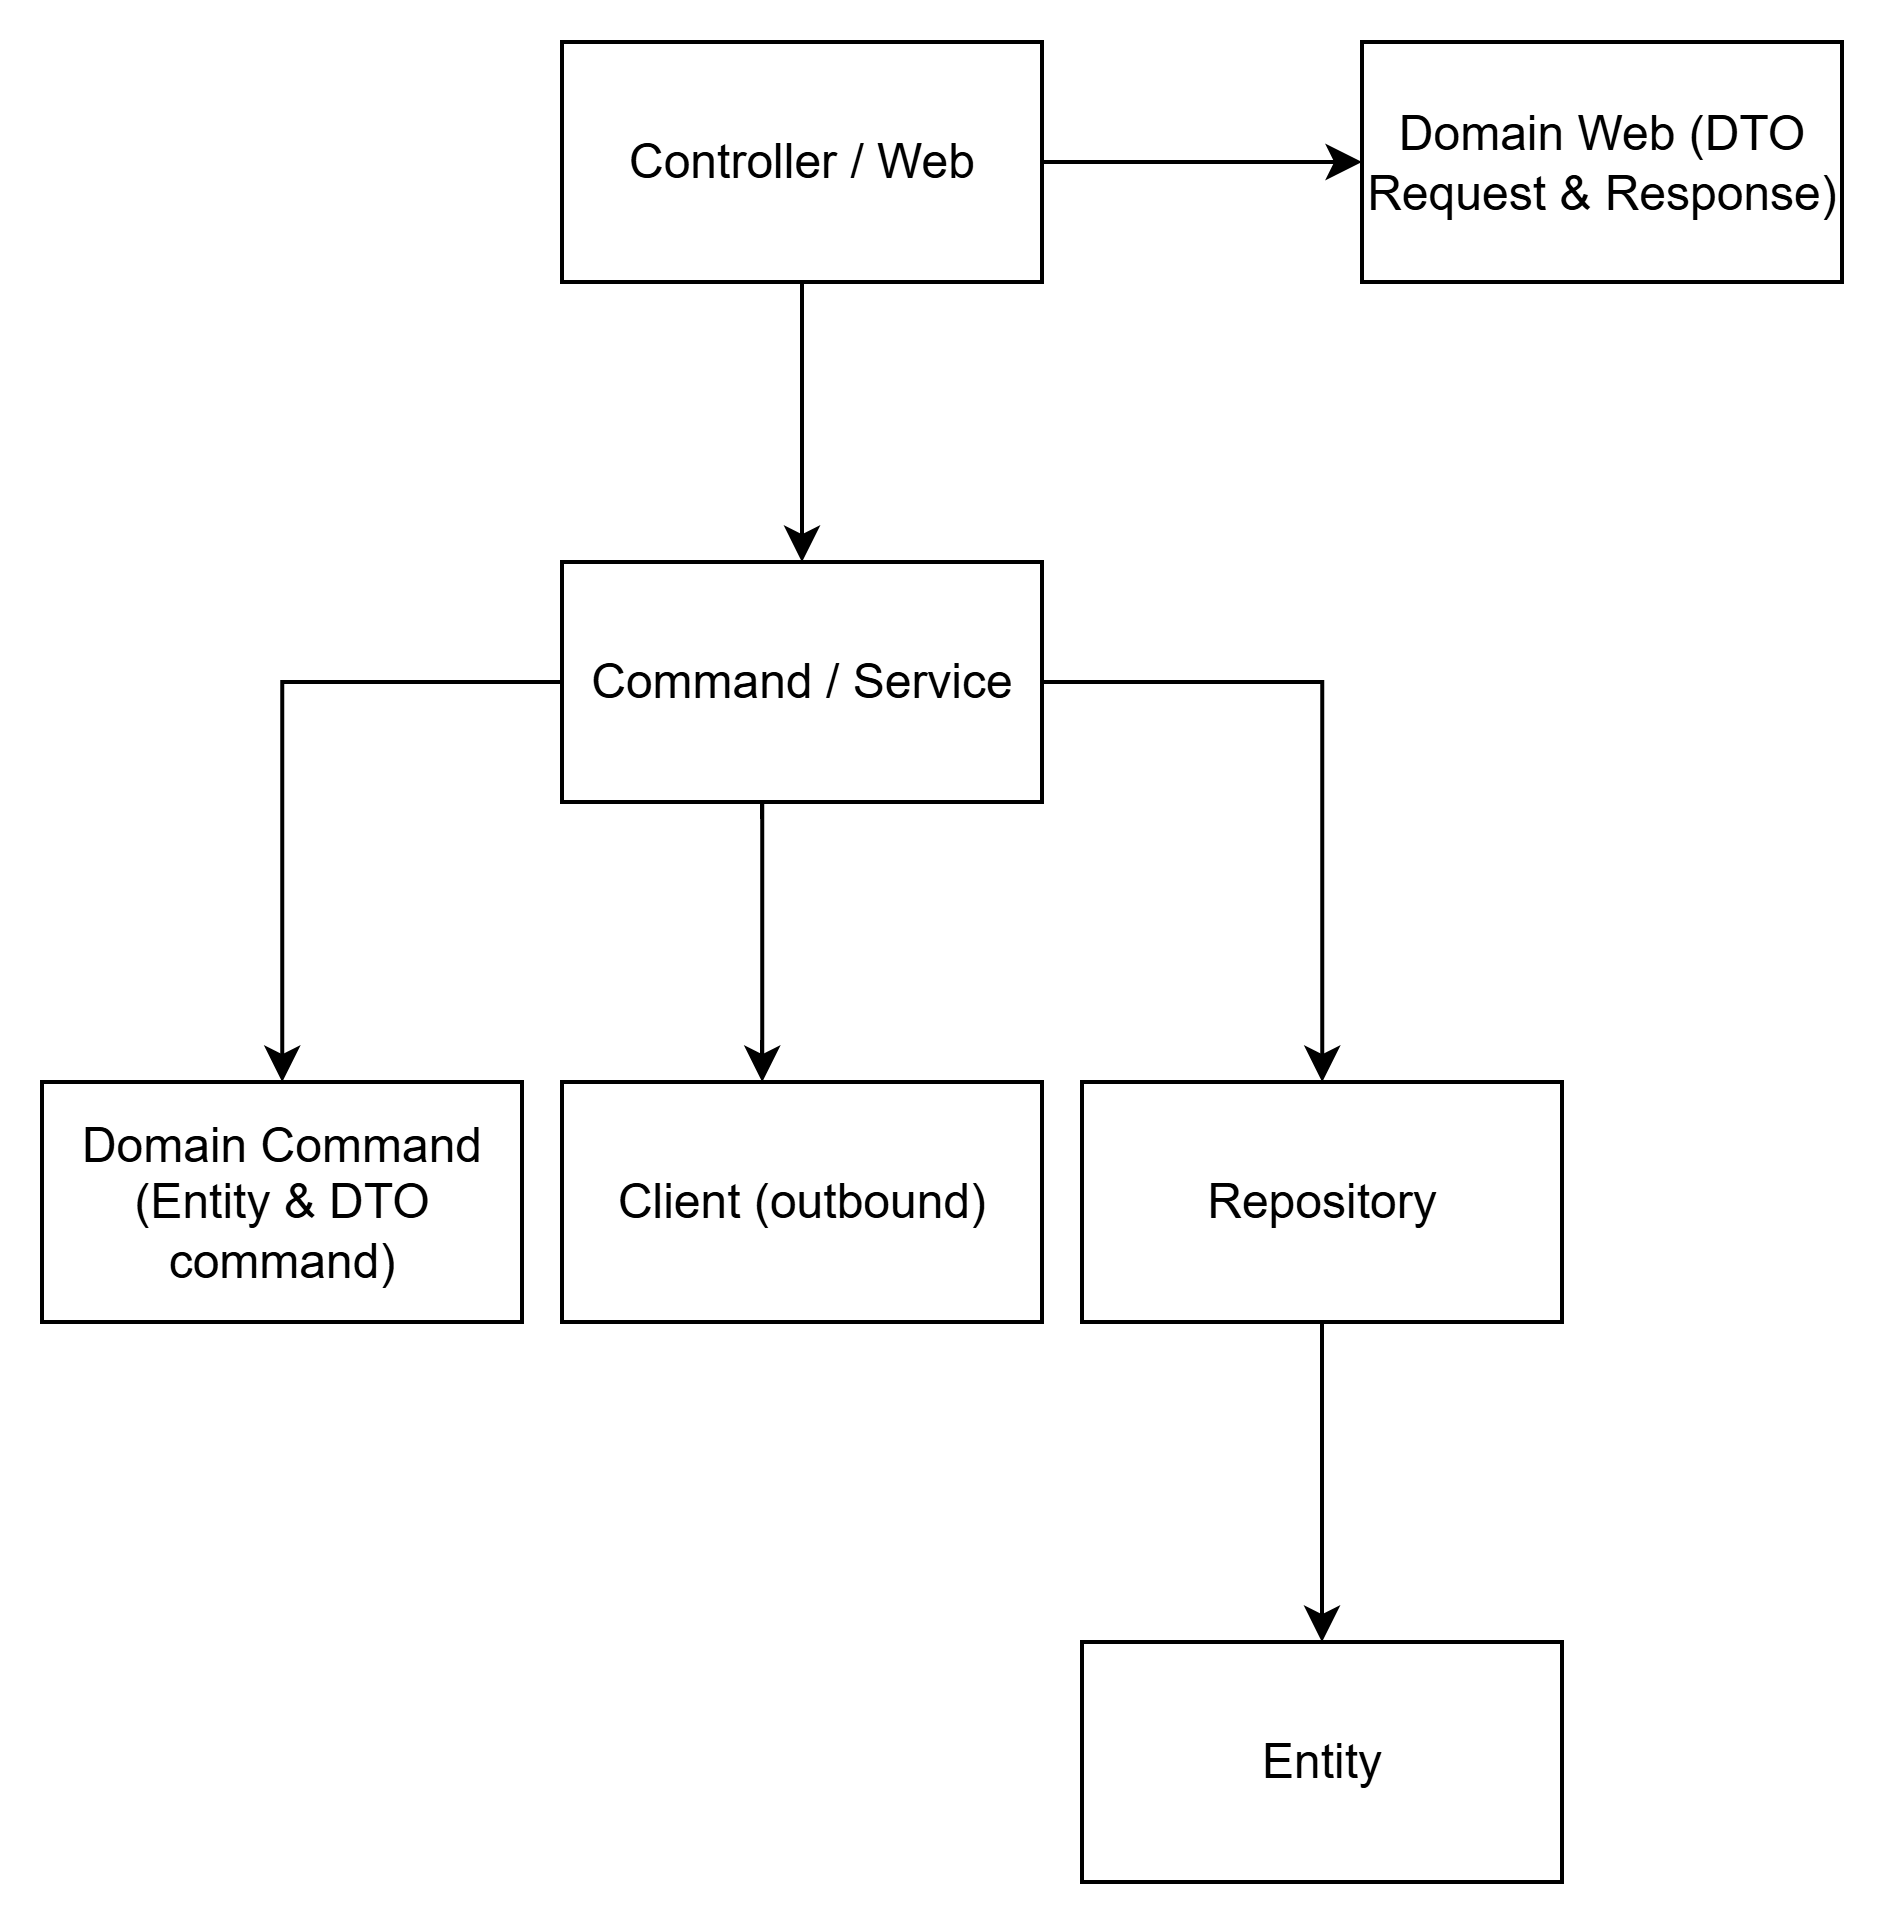
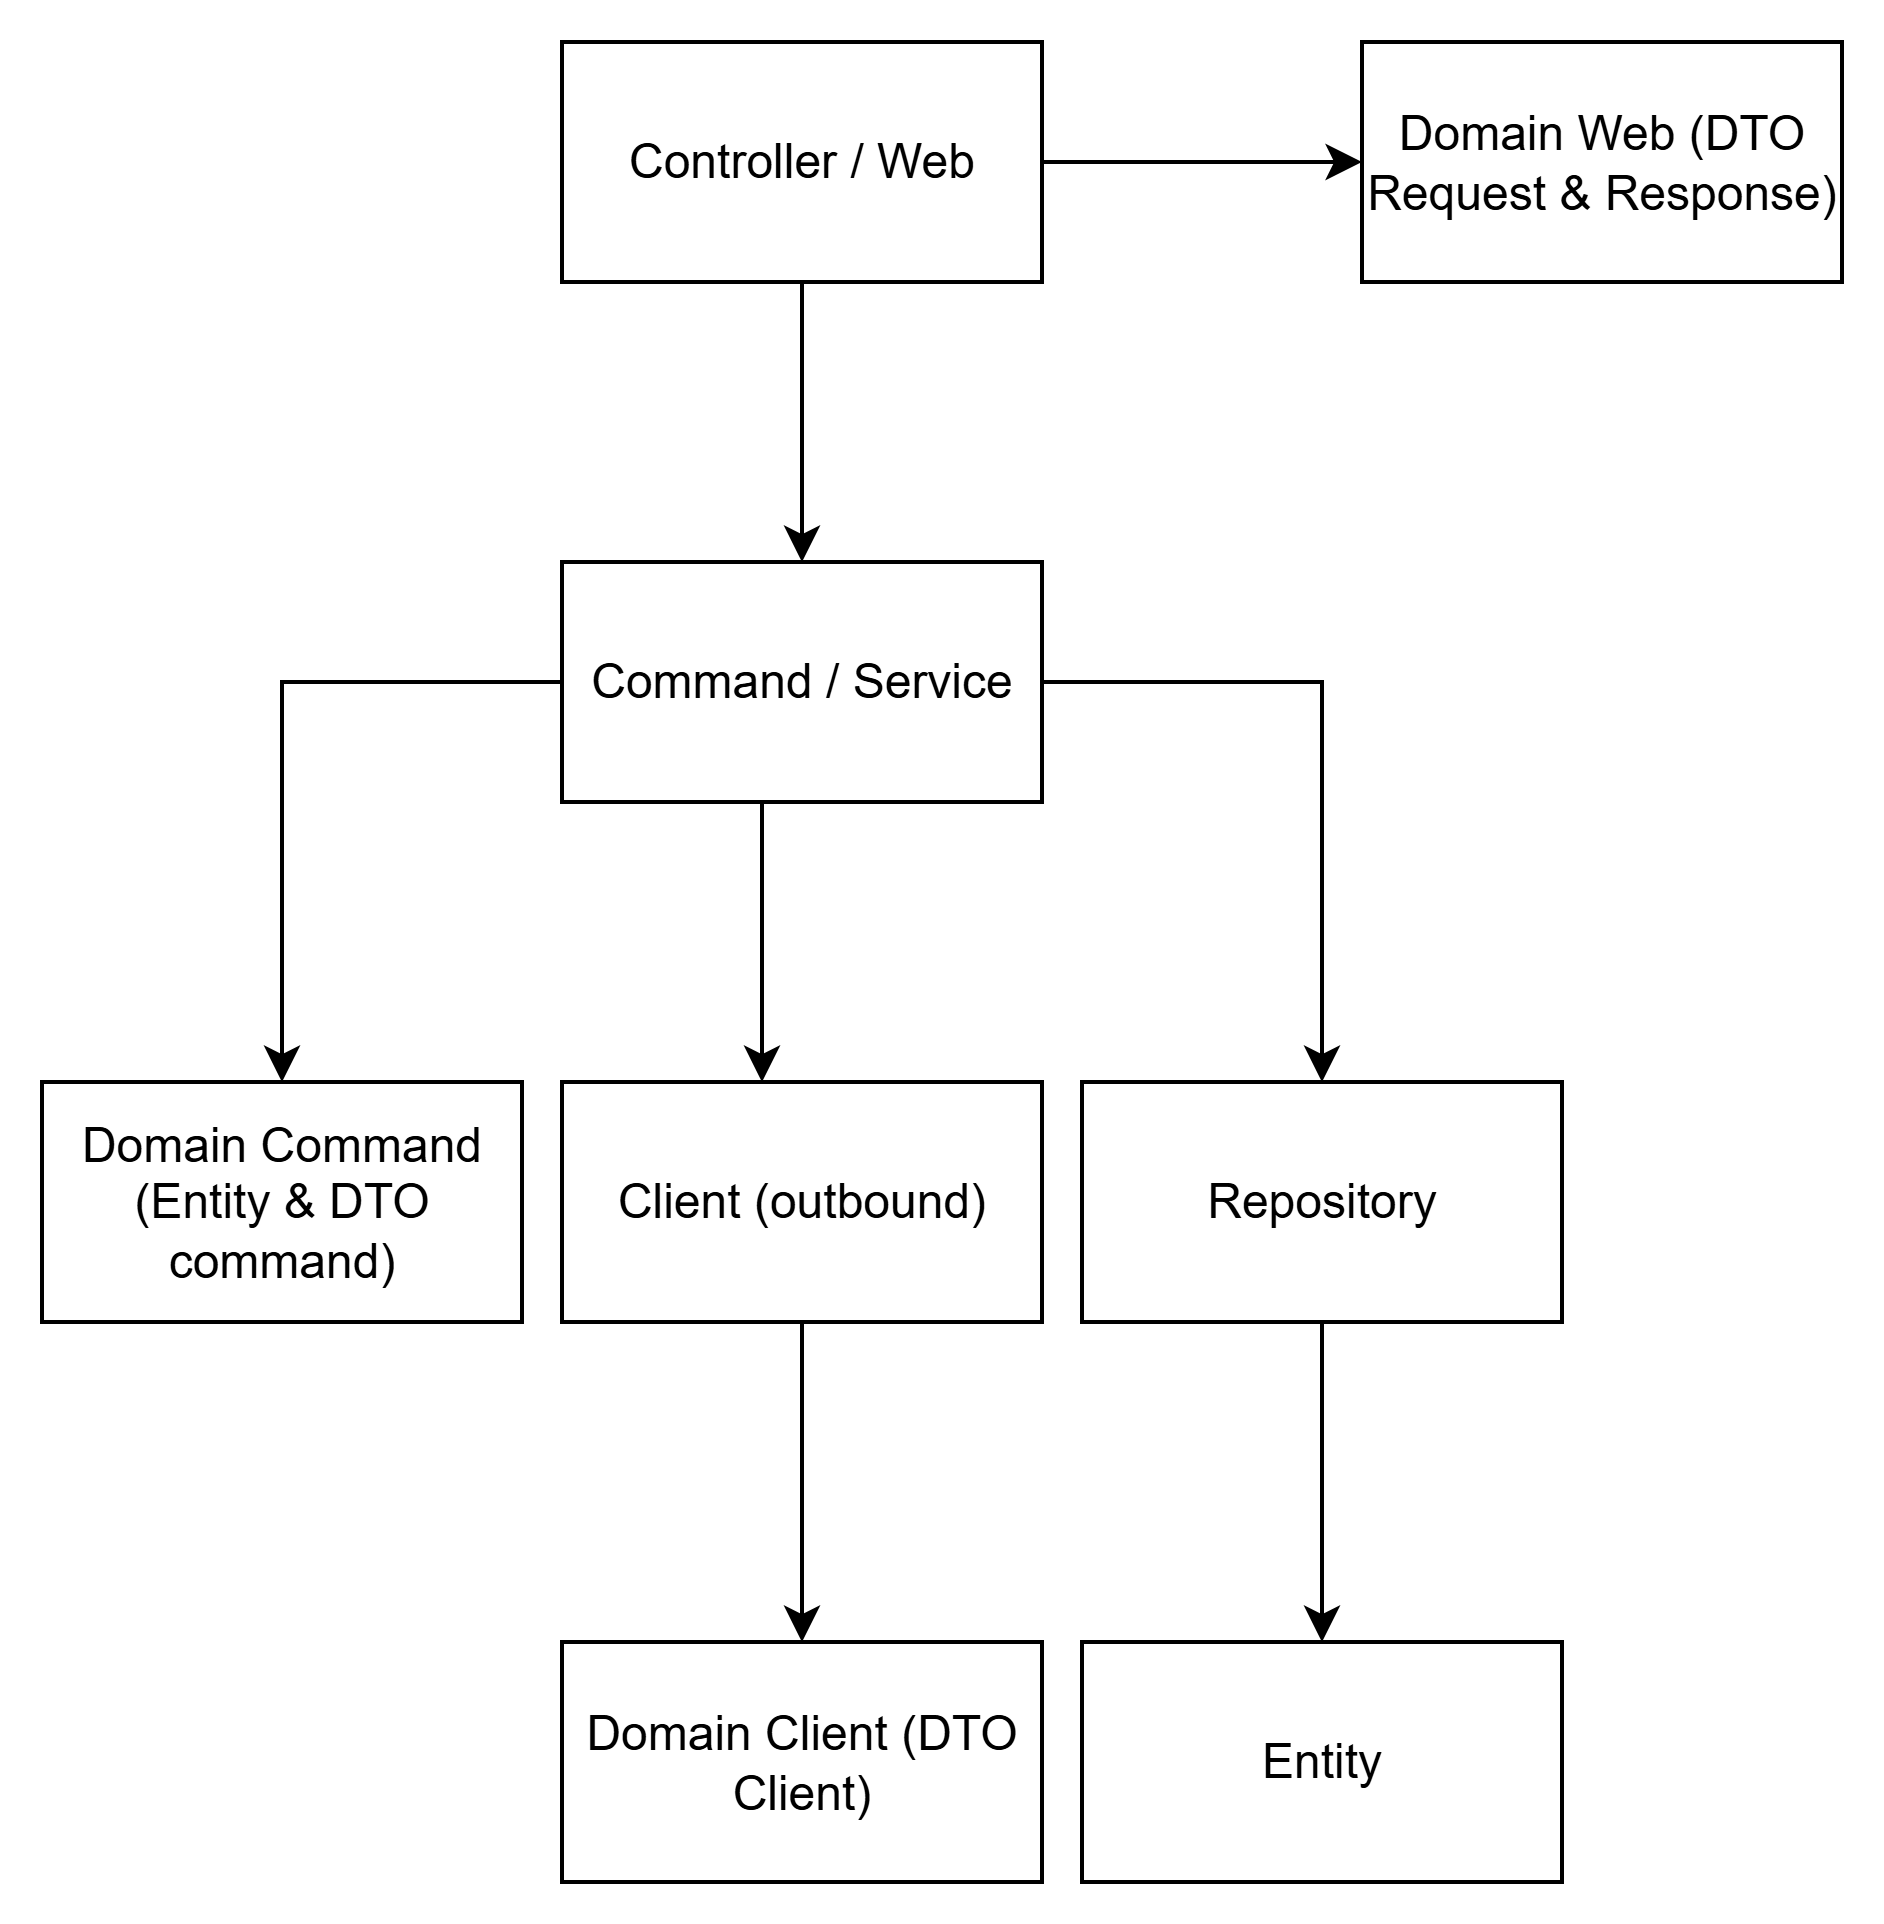
Add Sample Outbound Request
Adding Sample Outbound Request

diff --git a/client/src/main/java/template/config/WebClientConfig.java b/client/src/main/java/template/config/WebClientConfig.java
@@ -1,0 +1,37 @@
+package template.config;
+
+import org.springframework.context.annotation.Bean;
+import org.springframework.context.annotation.Configuration;
+import org.springframework.http.client.reactive.ReactorClientHttpConnector;
+import org.springframework.web.reactive.function.client.WebClient;
+import reactor.netty.http.client.HttpClient;
+import reactor.netty.resources.ConnectionProvider;
+import reactor.netty.resources.LoopResources;
+
+import java.time.Duration;
+
+@Configuration
+public class WebClientConfig {
+
+    @Bean
+    public WebClient webClient(WebClient.Builder builder) {
+        // Custom connection pool
+        ConnectionProvider connectionProvider = ConnectionProvider.builder("custom-conn-pool")
+                .maxConnections(200) // adjust based on your concurrency
+                .maxIdleTime(Duration.ofSeconds(30))
+                .maxLifeTime(Duration.ofMinutes(5))
+                .pendingAcquireTimeout(Duration.ofSeconds(5))
+                .build();
+
+        // Separate worker threads (so we don't block Netty's event loop)
+        LoopResources loopResources = LoopResources.create("webclient-worker", 4, true);
+
+        HttpClient httpClient = HttpClient.create(connectionProvider)
+                .runOn(loopResources)
+                .responseTimeout(Duration.ofSeconds(10));
+
+        return builder
+                .clientConnector(new ReactorClientHttpConnector(httpClient))
+                .build();
+    }
+}

diff --git a/client/src/main/java/template/testing/impl/TestingClientImpl.java b/client/src/main/java/template/testing/impl/TestingClientImpl.java
@@ -1,0 +1,27 @@
+package template.testing.impl;
+
+import org.springframework.stereotype.Service;
+import org.springframework.web.reactive.function.client.WebClient;
+import template.testing.TestingClient;
+import template.testing.TestingClientResponseDTO;
+
+@Service
+public class TestingClientImpl implements TestingClient {
+
+    private final WebClient webClient;
+
+    public TestingClientImpl(WebClient.Builder webClientBuilder) {
+        this.webClient = webClientBuilder
+                .baseUrl("https://jsonplaceholder.typicode.com") // base URL here
+                .build();
+    }
+
+    public TestingClientResponseDTO getOnePost(){
+        return webClient.get()
+                .uri("/posts/1")
+                .retrieve()
+                .bodyToMono(TestingClientResponseDTO.class)
+                .block();
+    }
+
+}

diff --git a/domain-command/src/main/java/template/testing/TestingEntity.java b/domain-command/src/main/java/template/testing/TestingEntity.java
@@ -5,14 +5,23 @@ import jakarta.persistence.Entity;
 import jakarta.persistence.GeneratedValue;
 import jakarta.persistence.GenerationType;
 import jakarta.persistence.Id;
-import lombok.Data;
+import lombok.*;
+
+import java.io.Serial;
+import java.io.Serializable;
 
 @Entity
-@Data
-public class TestingEntity {
-//please create a simple user payment API with features:
-//1. generate VA
-//2. listen for payments (thirdparty can be imaginary) and save received payments to database
+@Getter
+@Setter
+@ToString
+@RequiredArgsConstructor
+@NoArgsConstructor
+@AllArgsConstructor
+public class TestingEntity implements Serializable {
+
+    @Serial
+    private static final long serialVersionUID = -7906722929500777147L;
+
 
     @Id
     @GeneratedValue(strategy = GenerationType.IDENTITY)

diff --git a/domain-client/src/main/java/template/testing/TestingClientResponseDTO.java b/domain-client/src/main/java/template/testing/TestingClientResponseDTO.java
@@ -1,0 +1,21 @@
+package template.testing;
+
+import lombok.Data;
+
+import java.io.Serial;
+import java.io.Serializable;
+
+@Data
+public class TestingClientResponseDTO implements Serializable {
+
+    @Serial
+    private static final long serialVersionUID = 7571217781677063430L;
+
+    private Long userId;
+
+    private Long id;
+
+    private String title;
+
+    private String body;
+}

diff --git a/client/src/main/java/template/testing/TestingClient.java b/client/src/main/java/template/testing/TestingClient.java
@@ -1,0 +1,4 @@
+package template.testing;
+
+public interface TestingClient {
+}
